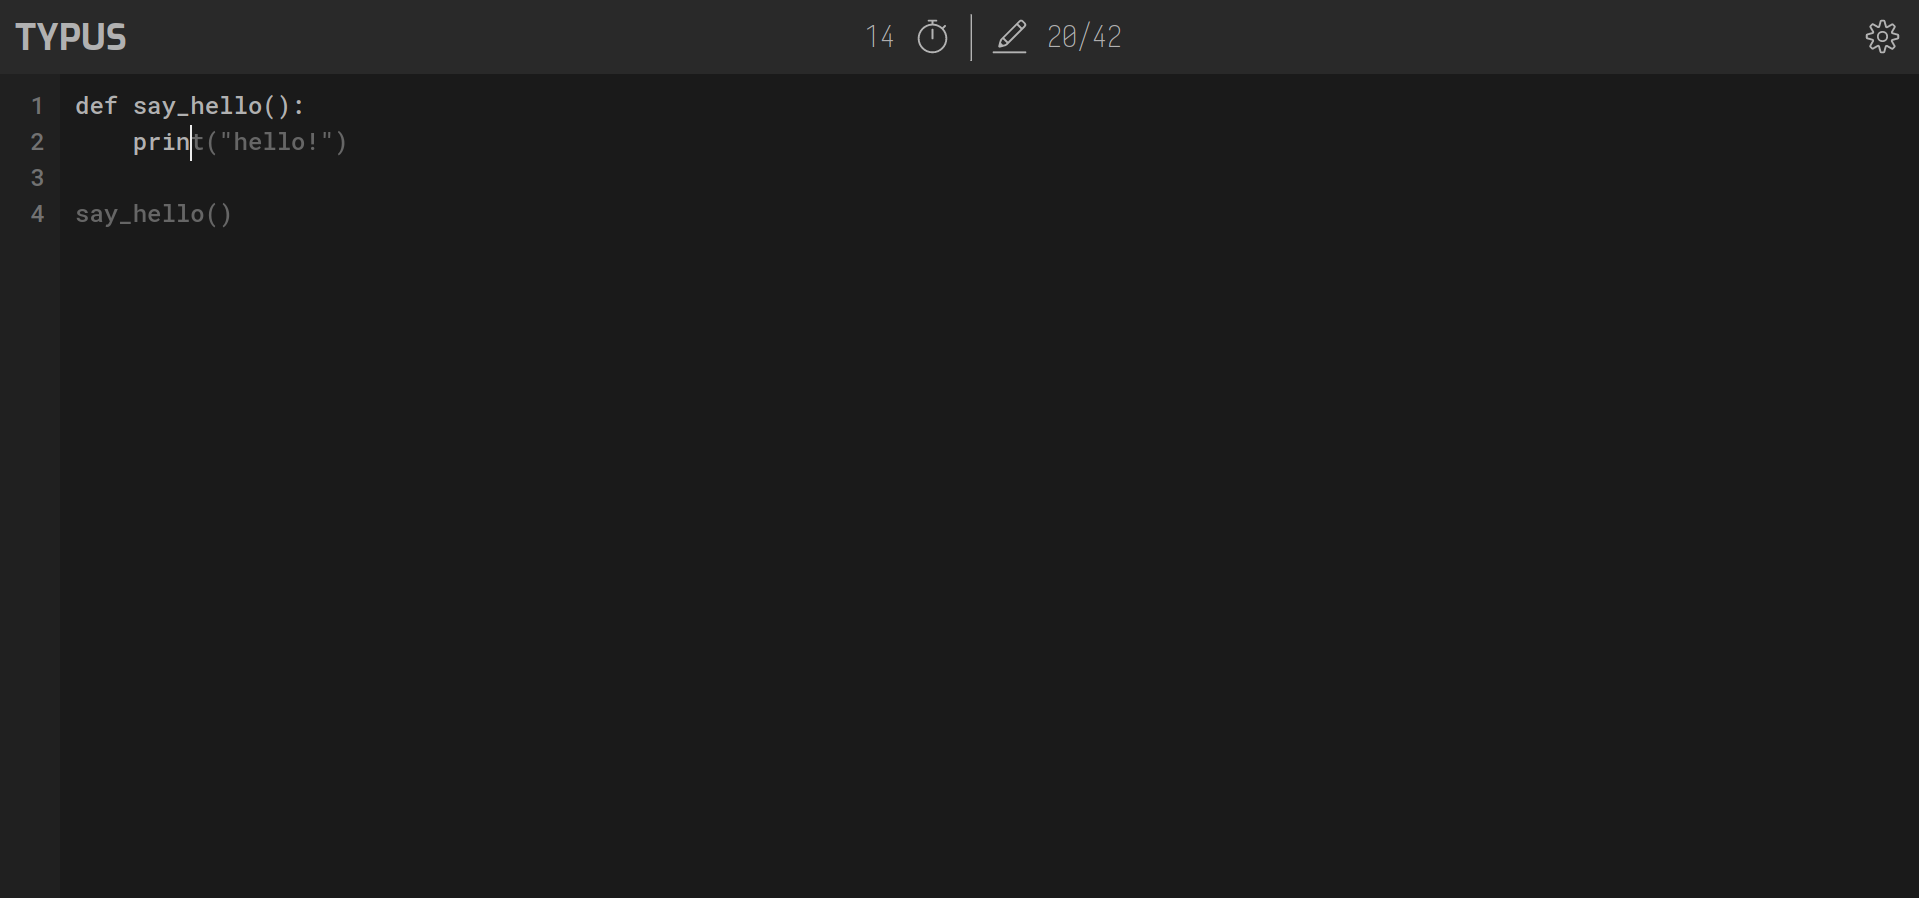
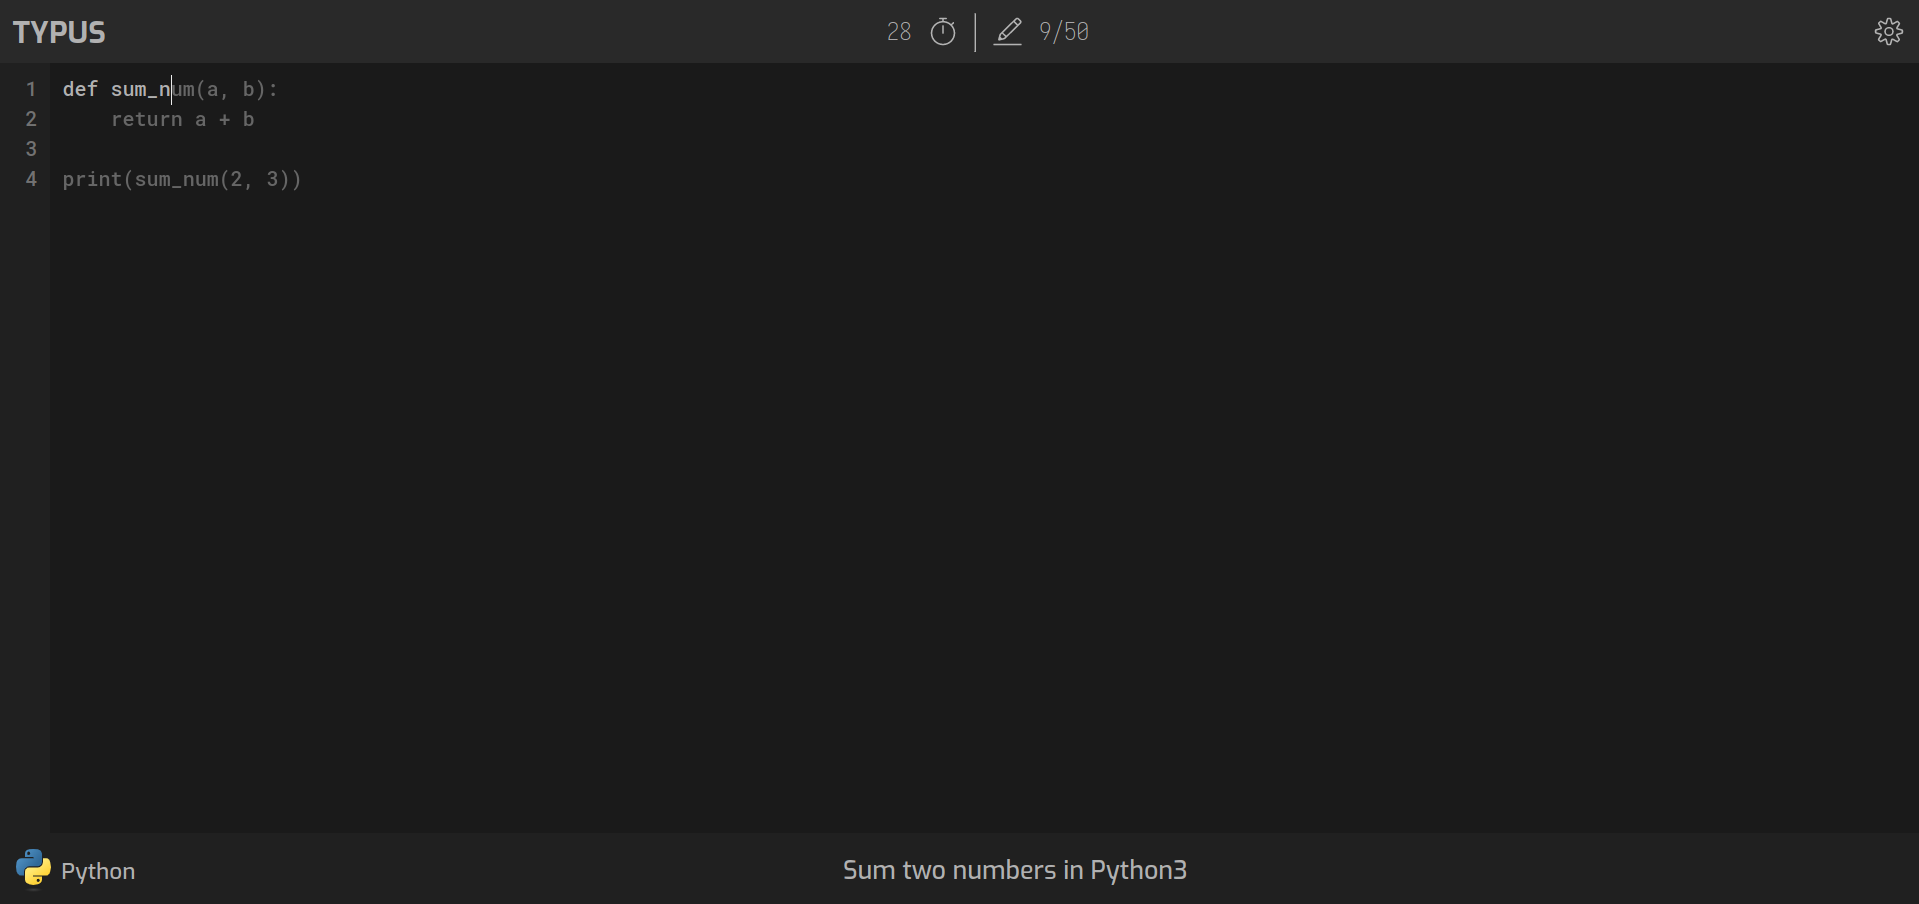
feat: Update README.md
- Change example picture
- Change text

diff --git a/README.md b/README.md
@@ -27,4 +27,6 @@ Typus is a website created for practising quick code typing. No third-party fron
 - Syntax highlighting
 - Errors highlighting
 - Admin page
+- User profiles
+- Leaderboard
 
